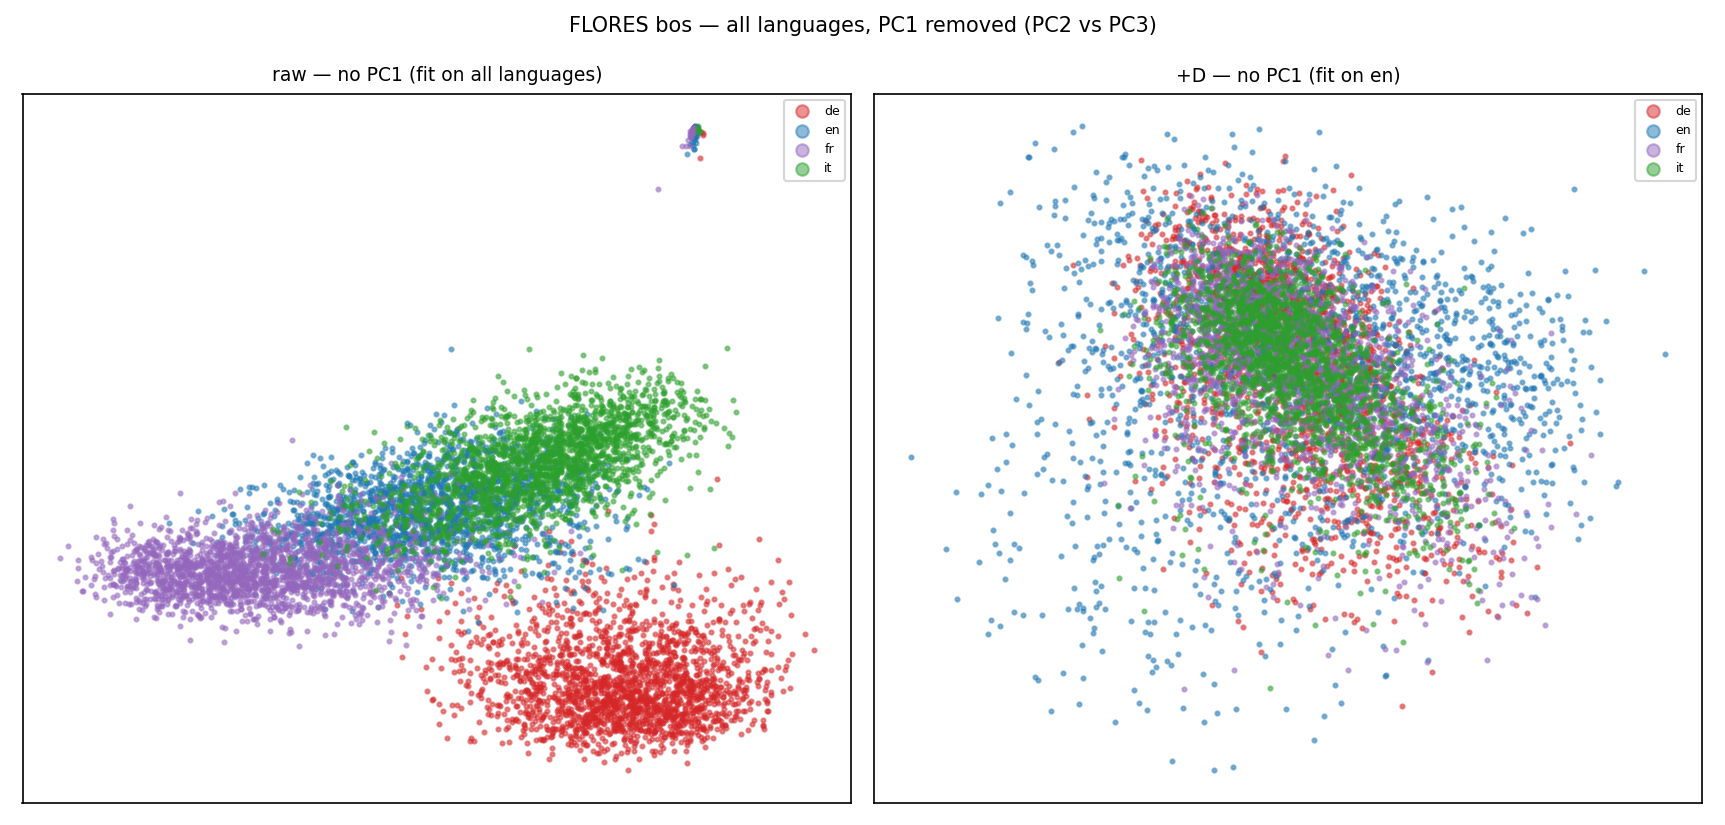
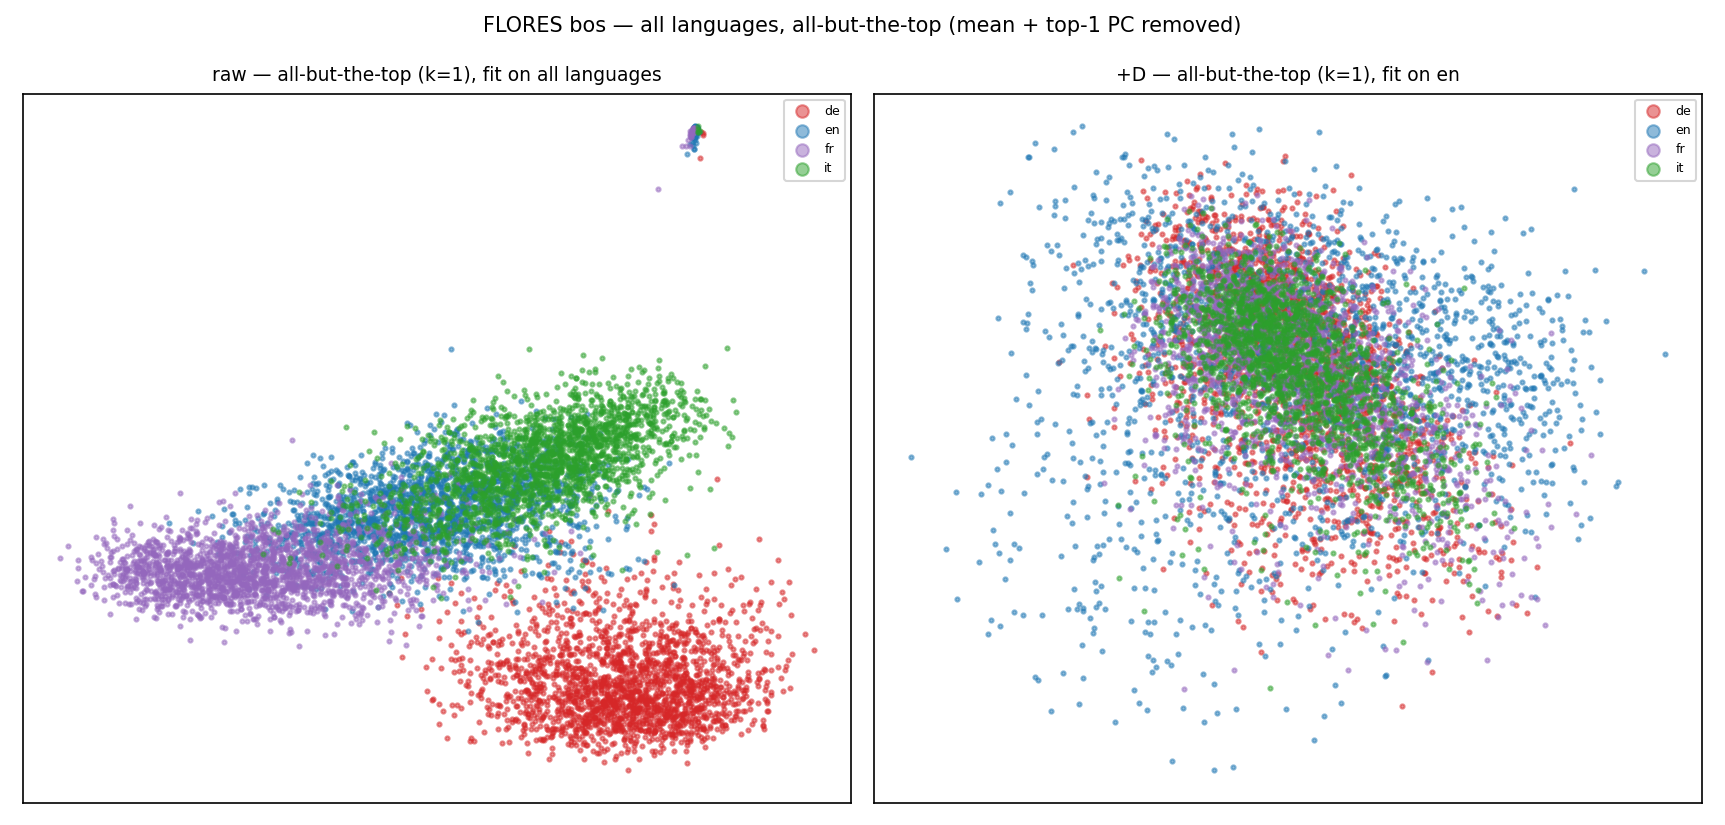
PCA plots: implement all-but-the-top (k=1) directly; variation names in titles

Changed region(s): [[0.1536, 0.0, 0.8296, 0.1212]]

diff --git a/pca_plots.py b/pca_plots.py
@@ -1,7 +1,8 @@
 """PCA plots of the FLORES-200 EuroBERT embeddings (local analysis; script + outputs are
 gitignored). Per pooling mode: all 4 languages on one figure, raw (PCA fit on all languages
-pooled) vs +D (PCA fit on the English embeddings only), plus a PC1-removed variant (PC2 vs PC3).
-For `mean` additionally: colored by primary lenient topic."""
+pooled) vs +D (PCA fit on the English embeddings only), plus an all-but-the-top variant
+(Mu & Viswanath 2018: fit mean + top-k PCs removed, k=1). For `mean` additionally: colored by
+primary lenient topic."""
 import os
 
 import numpy as np
@@ -35,9 +36,22 @@ def scatter(ax, pts, labels, colors, title, legend=True):
         ax.legend(markerscale=3, fontsize=6, loc="best")
 
 
-def pca23(Xfit, Xplot):
-    """Project onto PC2/PC3 (PC1 removed) of a PCA fitted on Xfit."""
-    return PCA(3, random_state=0).fit(Xfit).transform(Xplot)[:, 1:3]
+K = 1   # "all-but-the-top": number of top principal directions removed (plus the mean)
+
+
+def all_but_top(Xfit, Xplot, k=K):
+    """All-but-the-top (Mu & Viswanath 2018): remove the fit-set mean and the top-k principal
+    directions of Xfit from Xplot; returns the residual (same dimension as the input)."""
+    mu = Xfit.mean(0, keepdims=True)
+    comp = PCA(k, random_state=0).fit(Xfit).components_
+    R = Xplot - mu
+    return R - (R @ comp.T) @ comp
+
+
+def all_but_top_coords(Xfit, Xplot, k=K):
+    """All-but-the-top residual, then 2D PCA coordinates fitted on the fit-set residual."""
+    ref = all_but_top(Xfit, Xfit, k)
+    return PCA(2, random_state=0).fit(ref).transform(all_but_top(Xfit, Xplot, k))
 
 
 def main():
@@ -54,16 +68,20 @@ def main():
         fig, axes = plt.subplots(1, 2, figsize=(11.5, 5.5))
         scatter(axes[0], Praw, labels, LANG_COLORS, "raw — PCA fit on all languages")
         scatter(axes[1], Pshift, labels, LANG_COLORS, "+D — PCA fit on English only")
-        fig.suptitle(f"FLORES {mode} — all languages", fontsize=10)
+        fig.suptitle(f"FLORES {mode} — all languages | raw: PCA fit on all langs; "
+                     f"+D: PCA fit on en", fontsize=10)
         fig.tight_layout()
         fig.savefig(os.path.join(OUT, f"pca_lang_{mode}.png"), dpi=150)
         plt.close(fig)
-        Praw23 = pca23(Xraw, Xraw)
-        Pshift23 = pca23(E["en"], Xshift)
+        Praw23 = all_but_top_coords(Xraw, Xraw)
+        Pshift23 = all_but_top_coords(E["en"], Xshift)
         fig, axes = plt.subplots(1, 2, figsize=(11.5, 5.5))
-        scatter(axes[0], Praw23, labels, LANG_COLORS, "raw — no PC1 (fit on all languages)")
-        scatter(axes[1], Pshift23, labels, LANG_COLORS, "+D — no PC1 (fit on en)")
-        fig.suptitle(f"FLORES {mode} — all languages, PC1 removed (PC2 vs PC3)", fontsize=10)
+        scatter(axes[0], Praw23, labels, LANG_COLORS,
+                f"raw — all-but-the-top (k={K}), fit on all languages")
+        scatter(axes[1], Pshift23, labels, LANG_COLORS,
+                f"+D — all-but-the-top (k={K}), fit on en")
+        fig.suptitle(f"FLORES {mode} — all languages, all-but-the-top "
+                     f"(mean + top-{K} PC removed)", fontsize=10)
         fig.tight_layout()
         fig.savefig(os.path.join(OUT, f"pca_lang_{mode}_noPC1.png"), dpi=150)
         plt.close(fig)
@@ -89,11 +107,13 @@ def main():
     fig.tight_layout()
     fig.savefig(os.path.join(OUT, "pca_mean_lang_topic.png"), dpi=150)
     plt.close(fig)
-    P23 = pca23(Xall, Xall)
+    P23 = all_but_top_coords(Xall, Xall)
     fig, axes = plt.subplots(1, 2, figsize=(11, 5))
-    scatter(axes[0], P23, labels_l, LANG_COLORS, "by language — no PC1")
-    scatter(axes[1], P23, prim4, tag_colors, "by primary topic (lenient) — no PC1")
-    fig.suptitle("FLORES mean — PC1 removed (PC2 vs PC3), all 4 languages pooled", fontsize=10)
+    scatter(axes[0], P23, labels_l, LANG_COLORS, f"by language — all-but-the-top (k={K})")
+    scatter(axes[1], P23, prim4, tag_colors,
+            f"by primary topic (lenient) — all-but-the-top (k={K})")
+    fig.suptitle(f"FLORES mean — all-but-the-top (mean + top-{K} PC removed), "
+                 "all 4 languages pooled", fontsize=10)
     fig.tight_layout()
     fig.savefig(os.path.join(OUT, "pca_mean_lang_topic_noPC1.png"), dpi=150)
     plt.close(fig)
